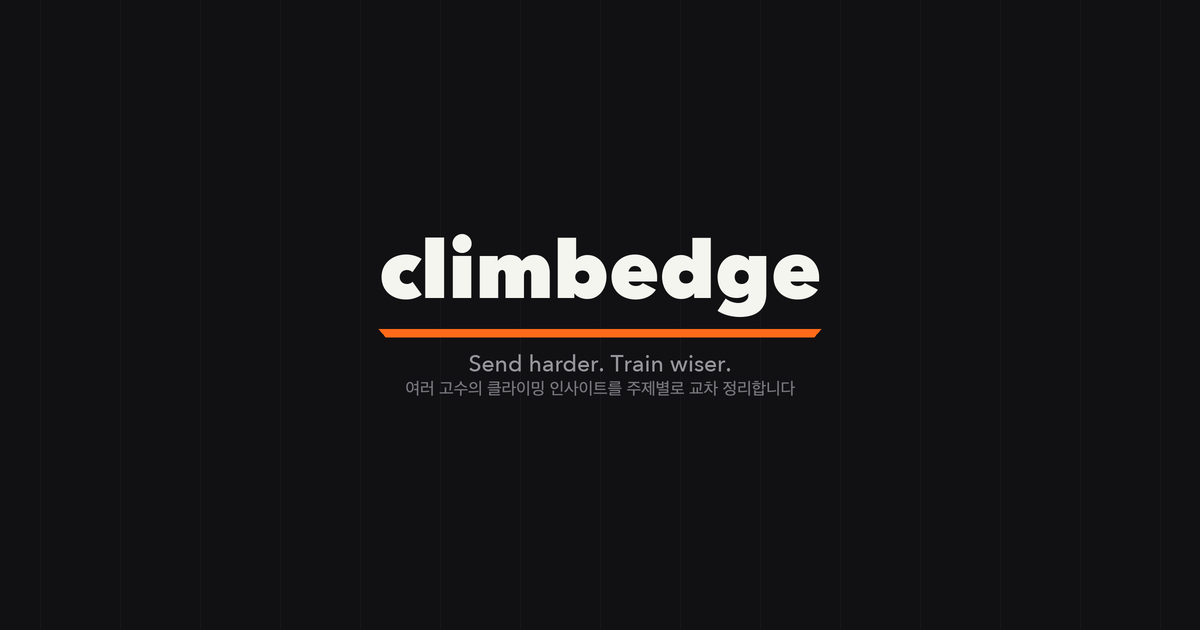
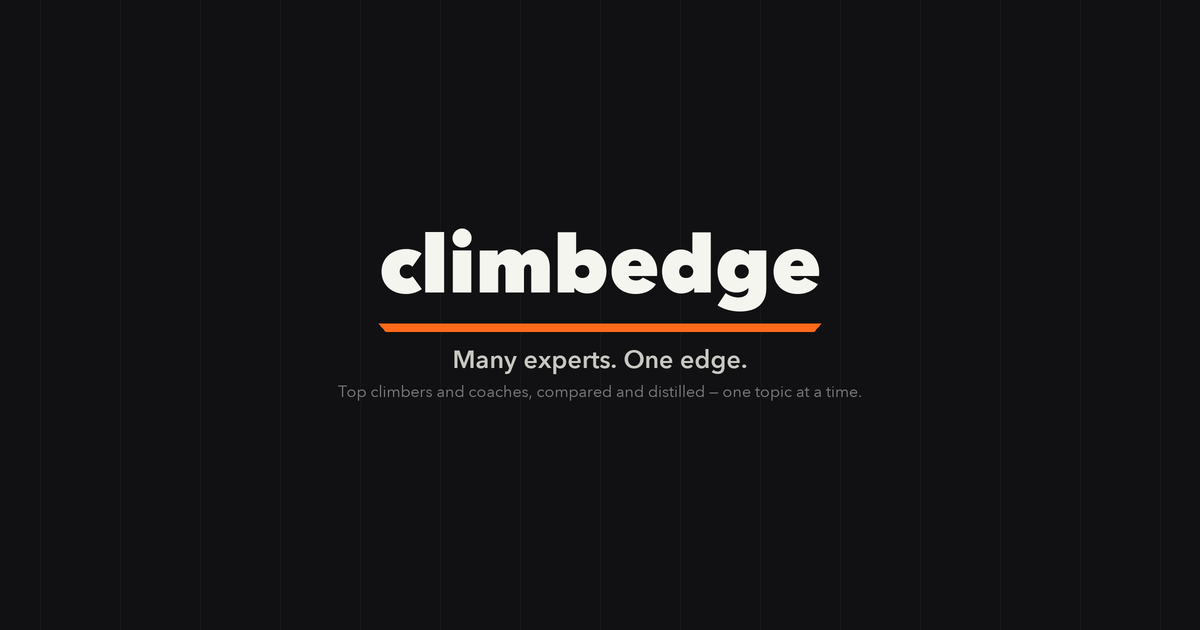
New tagline: Many experts. One edge.

Changed region(s): [[0.2775, 0.3619, 0.7092, 0.6333]]

diff --git a/assets/css/main.css b/assets/css/main.css
@@ -46,3 +46,4 @@ h1,h2,h3{letter-spacing:-.02em;line-height:1.35}
 .tags span{display:inline-block;margin:4px 8px 0 0;font-size:13px;color:var(--muted)}
 .site-footer{border-top:1px solid var(--line);padding:28px 0;font-size:14px}
 @media (max-width:600px){body{font-size:16px}.hero h1{font-size:42px}.post-head h1{font-size:27px}.site-header nav a{margin-left:12px}}
+.hero .intro{color:var(--muted);font-size:17px;margin:2px 0 14px}

diff --git a/index.html b/index.html
@@ -4,6 +4,7 @@ layout: default
 <section class="hero">
   <h1>climbedge<span class="edge"></span></h1>
   <p class="lead">{{ site.tagline }}</p>
+  <p class="intro">{{ site.intro }}</p>
   <p>한 사람의 이야기를 번역하는 대신, 같은 주제를 다룬 여러 고수의 관점을 모아 <strong>공통점 · 차이점 · 근거</strong>를 정리합니다.</p>
 </section>
 <section class="list">

diff --git a/about.md b/about.md
@@ -5,7 +5,8 @@ permalink: /about/
 ---
 # ClimbEdge 소개
 
-**Send harder. Train wiser.**
+**Many experts. One edge.**  
+*Top climbers and coaches, compared and distilled — one topic at a time.*
 
 ClimbEdge는 세계적인 클라이머·코치들의 영상과 연구를 **주제별로 모아 교차 분석**합니다.
 한 명의 영상을 그대로 번역하지 않습니다. 예를 들어 '오픈그립'을 다룬다면, 그 주제를 다룬 여러 사람의 영상과 자료를 함께 보고 정리합니다.

diff --git a/README.md b/README.md
@@ -1,6 +1,6 @@
 # ClimbEdge Blog
 
-https://climbedge.github.io — Send harder. Train wiser.
+https://climbedge.github.io — Many experts. One edge.
 
 여러 클라이머·코치의 영상과 자료를 **주제별로 교차 분석**해 정리하는 블로그. 글이 원본이고, 글을 바탕으로 YouTube(@climbedge) 영상을 만든다.
 
